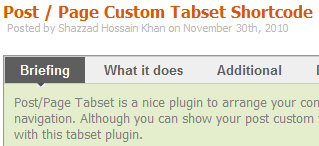
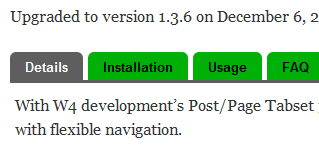
V 1.3.6
git-svn-id: https://plugins.svn.wordpress.org/postpage-content-anchor-tabset/trunk@332144 b8457f37-d9ea-0310-8a92-e5e31aec5664

diff --git a/tabset.js b/tabset.js
@@ -2,6 +2,7 @@
 $(document).ready(function(){
 	//var w4tabs = $('#tab_area' ).tabs() ;
 	//mytabs.tabs( "rotate" , 3000 , true ) ;
+	$('#w4_tabset_widget').tabs({ spinner: 'Loading...' });
 	var effect1 = $('.tabset_effect_1' ).tabs() ;
 	var effect2 = $('.tabset_effect_2' ).tabs() ;
 	var effect3 = $('.tabset_effect_3' ).tabs() ;
@@ -9,6 +10,11 @@ $(document).ready(function(){
 	effect2.tabs( "option", "fx", { height: 'toggle', duration : 300 }) ;
 	effect3.tabs( "option", "fx", { opacity : 'toggle', duration : 400 }) ;
 	
+	var events1 = $('.on_click' ).tabs() ;
+	var events2 = $('.on_hover' ).tabs() ;
+	
+	$( ".on_click" ).tabs( "option", "event", 'click' );
+	$( ".on_hover" ).tabs( "option", "event", 'mouseover' );
 	//Make the tabset colapsible on click
 	//effect1.tabs("option", "collapsible", true);
 	
@@ -25,7 +31,7 @@ $(document).ready(function(){
 	});
 	
 	$('#reset-tabset-options').click(function(){
-		if( confirm( "Are you sure you want to reset Tabber option to default ??" )){
+		if( confirm( "Are you sure you want to reset \"W4 content tabset\" option to default ??" )){
 			return true ;
 		}
 		return false ;

diff --git a/tabset.css b/tabset.css
@@ -1,3 +1,4 @@
+/*Admin section*/
 #tabset_wrapper p.info {
 	-moz-border-radius-bottomleft:6px;
 	-moz-border-radius-bottomright:6px;
@@ -5,17 +6,20 @@
 	-moz-border-radius-topright:6px;
 	background:#DCF3DB none repeat scroll 0 0;
 	border:1px solid #C9E6C8;
-	font-size:17px;
+	font-size:13px;
 	font-style:normal;
 	padding:10px 15px;
-	font-weight:bold;
 	}
 #tabset_wrapper p.info a {
 	font-weight:normal;
+	border-left:1px solid #666666;
+	padding:0 0 0 10px;
+	margin:0 10px 0 0;
+	text-decoration:none;
 	}
 #tabset_wrapper .notice {
-	background:#FFFFFF;
 	color: #FF0000;
+	font-size:11px;
 	}
 #tabset_wrapper span.advice {
 	background-color:#FFFFE0;
@@ -23,3 +27,10 @@
 	padding:5px 10px;
 	font-weight:bold;
 }
+/*For the main tabset preview page*/
+.ui-tabs-hide, ui-tabs-panel{
+	display:none;
+	}
+.ui-widget-content{
+	display:block;
+	}

diff --git a/tabset_admin.php b/tabset_admin.php
@@ -17,13 +17,13 @@ function w4_tabset_get_option($key = null){
 add_action( 'init', 'load_tabset_scripts' ) ;
 function load_tabset_scripts(){
 	//script
-		wp_enqueue_script( 'tabset_js', TABSET_URL . 'tabset.js', array( 'jquery' , 'jquery-ui-core', 'jquery-ui-tabs' ), TABSET_VERSION, true ) ;
+		wp_enqueue_script( 'tabset_js', TABSET_URL . 'tabset.js', array( 'jquery' , 'jquery-ui-core', 'jquery-ui-tabs' ), TABSET_VERSION, false ) ;
 		wp_enqueue_style( 'tabset_rewrite', TABSET_URL . 'rewrite.css', '', TABSET_VERSION ) ;
 		wp_enqueue_style( 'tabset_style', TABSET_URL . 'tabset.css', '', TABSET_VERSION ) ;
 		//for admin
 		wp_enqueue_script( 'color_picker', TABSET_URL . 'colorpicker/jscolor.js', array( 'jquery' , 'jquery-ui-core' ),TABSET_VERSION,true ) ;
 		
-		if(is_admin() && $_GET['page'] == 'post-tabs' )
+		if(is_admin() && $_GET['page'] == 'w4-content-tabset' )
 			add_filter( 'contextual_help', 'tabset_help' ) ;
 }
 
@@ -54,57 +54,65 @@ function post_tab_admin_menu(){
 						'tabset_menu_text_color_hover' 		=> '#FFFFFF',
 						'tabset_content_bg_color'			=> 'none',
 						'tabset_content_border_color'		=> '#5E5E5E',
-						'tabset_effect'						=> '1'
-						) ;
+						'tabset_effect'						=> '1',
+						'tabset_event'						=> 'on_click'
+						);
 	
 	
 	if( !get_option( 'w4_tabset_options' )){
 		register_setting( 'w4_tabset_options', 'w4_tabset_options' );
-		//removing old databse format
+		//Removing old databse format
 		foreach( $tabset_default_options as $key => $default ){
-			if( get_option( $key )){
+			if( get_option($key)){
 				$tabset_default_options[$key] = get_option( $key );
-				delete_option( $key ) ;
+				delete_option( $key);
 			}
 		}
+		//Remover old style
+		if(get_option('tabset_style'))
+			delete_option('tabset_style');
 		//Adding default
 		add_option( 'w4_tabset_options', $tabset_default_options );
 	}
-	//Remover completely
-	delete_option('tabset_style');
 
 	if( isset( $_POST['save-tabset-options'] )){
-		update_option( 'w4_tabset_options', $tabset_default_options );
+		//update_option( 'w4_tabset_options', $tabset_default_options );
 		foreach( $tabset_default_options as $key => $default ){
 			$tabset_default_options[$key] = $_REQUEST[$key];
 		}
 		update_option( 'w4_tabset_options', $tabset_default_options );
 		tabset_stylesheet_update() ;
-		header("Location: edit.php?page=post-tabs&saved=true") ;
+		header("Location: edit.php?page=w4-content-tabset&saved=true") ;
 		die();
 	}
 
 	if ( isset( $_POST['reset-tabset-options'] )) {
 		update_option( 'w4_tabset_options', $tabset_default_options );
 		tabset_stylesheet_update() ;
-		header("Location: edit.php?page=post-tabs&reset=true") ;
+		header("Location: edit.php?page=w4-content-tabset&reset=true") ;
 		die();
 	}
 
-	add_posts_page( "Post/Page Tabs", "Post/Page tabset", 'publish_posts', 'post-tabs', 'post_tab_admin_page' ) ;
+	add_posts_page( "W4 content tabset", "W4 content tabset", 'publish_posts', 'w4-content-tabset', 'w4_content_tabset_admin_page' ) ;
 }
 
-function post_tab_admin_page(){
+function w4_content_tabset_admin_page(){
 	if ( $_REQUEST[ 'saved' ] ) echo '<div id="message" class="updated fade"><p><strong>Settings saved.</strong></p></div>';
 	if ( $_REQUEST[ 'reset' ] ) echo '<div id="message" class="updated fade"><p><strong>Settings reset.</strong></p></div>';
 ?>
 	<div id="tabset_wrapper" class="wrap">
     	<div class="icon32" id="icon-post"><br/></div>
-        <h2>Post/page Tabset <?php echo "V-".TABSET_VERSION ; ?> options
-        <p class="info">Developed by &raquo;<a href="http://w4dev.com" class="us" rel="developer" title="Web and wordpress development...">W4 development</a> &raquo;<a id="tabset_help" href="javascript:void(0);" title="Tabset documentation"> Need help ?</a> &raquo;<a href="http://w4dev.com/w4-plugin/post-page-custom-tabset-shortcode" title="Visit Plugin Site"> Visit Plugin Site</a> &raquo;<a href="mailto:sajib1223@gmail.com" rel="tabset_author_mail"> Mailto:Contact</a></p></h2>
-        <p><span class="notice">Note: The Anchor tabser has been removed from this version also the style. Now it is taking a new option, "effect".</span></p>
-        <form action="<?php echo admin_url("edit.php?page=post-tabs") ; ?>" method="post" id="tabset-form" enctype="multipart/form-data">
-		<input type="hidden" value="save" name="action"/>
+        <h2>W4 content tabset <?php echo "V-".TABSET_VERSION ; ?> options</h2>
+        <p class="info">
+		Developed by <a href="http://w4dev.com" class="us" rel="developer" title="Web and wordpress development...">W4 development</a>
+        <a id="tabset_help" href="javascript:void(0);" title="Tabset documentation"> Need help ?</a>
+        <a href="http://w4dev.com/w4-plugin/post-page-custom-tabset-shortcode" title="Visit Plugin Site"> Visit Plugin Site</a>
+        <a href="http://www.facebook.com/w4dev" title="Find us on facebook">Find us on facebook</a>
+        <a href="mailto:sajib1223@gmail.com" rel="tabset_author_mail"> Mailto: Direct Contact</a><br />
+		<span class="notice">Note: The Anchor tabser has been removed from this version also the style. Now it is taking a new option, "effect".</span>
+        </p>
+	<form action="<?php echo admin_url("edit.php?page=w4-content-tabset") ; ?>" method="post" id="tabset-form" enctype="multipart/form-data">
+	<input type="hidden" value="save" name="action"/>
 	<table class="form-table">
         <tbody>
 			<tr valign="top">
@@ -116,13 +124,22 @@ function post_tab_admin_page(){
                 <br />
                 <label><input type="radio" name="tabset_effect" <?php checked( w4_tabset_get_option( 'tabset_effect'),3 ) ; ?> value="3" id="tabset_effect3" />Fade</label>
 				</td>
-                <td>&nbsp;</td>
+                <td><input type="submit" id="save-tabset-options" name="save-tabset-options" class="button-primary" value="Save Tabset option" /></td>
 			</tr>
             
             <tr valign="top">
-                <th scope="row">Tabset menu background color</th>
-                <td><input type="text" class="color {pickerMode:'HVS', hash: true}" value="<?php echo  w4_tabset_get_option( 'tabset_menu_bg_color' ) ; ?>" id="tabset_menu_bg_color" name="tabset_menu_bg_color"/></td>
+                <th scope="row">Tabset event (how the will open)</th>
+                <td>
+                <label><input type="radio" name="tabset_event" <?php checked( w4_tabset_get_option( 'tabset_event'),'on_click' ) ; ?> value="on_click" id="tabset_event1" />Onclick</label>
+                <br />
+                <label><input type="radio" name="tabset_event" <?php checked( w4_tabset_get_option( 'tabset_event'),'on_hover' ) ; ?> value="on_hover" id="tabset_event2" />On mousehover</label>
+				</td>
                 <td>&nbsp;</td>
+			</tr>
+            <tr valign="top">
+                <th scope="row">Tabset menu item background color</th>
+                <td><input type="text" class="color {pickerMode:'HVS', hash: true}" value="<?php echo  w4_tabset_get_option( 'tabset_menu_bg_color' ) ; ?>" id="tabset_menu_bg_color" name="tabset_menu_bg_color"/></td>
+                <td><input type="submit" id="save-tabset-options" name="save-tabset-options" class="button-primary" value="Save Tabset option" /></td>
 			</tr>
 
         	<tr valign="top">
@@ -138,9 +155,9 @@ function post_tab_admin_page(){
 			</tr>
             
             <tr valign="top">
-                <th scope="row">Tabset menu hover/active background color</th>
+                <th scope="row">Tabset menu hover/active item background color</th>
                 <td><input type="text" class="color {pickerMode:'HVS', hash: true}" value="<?php echo w4_tabset_get_option( 'tabset_menu_bg_color_hover' ) ; ?>" id="tabset_menu_bg_color_hover" name="tabset_menu_bg_color_hover"/></td>
-                <td>&nbsp;</td>
+                <td><input type="submit" id="save-tabset-options" name="save-tabset-options" class="button-primary" value="Save Tabset option" /></td>
 			</tr>
             
             <tr valign="top">
@@ -156,18 +173,15 @@ function post_tab_admin_page(){
 			</tr>
             
             <tr valign="top">
-                <th scope="row">Tabset active content border color</th>
+                <th scope="row">Tabset border bottom color</th>
                 <td><input type="text" class="color {pickerMode:'HVS', hash: true}" value="<?php echo w4_tabset_get_option( 'tabset_content_border_color' ) ; ?>" id="tabset_content_border_color" name="tabset_content_border_color"/></td>
-                <td>&nbsp;</td>
+                <td><input type="submit" id="save-tabset-options" name="save-tabset-options" class="button-primary" value="Save Tabset option" /><br />
+<input type="submit" id="reset-tabset-options" style="background: #FF0000;" name="reset-tabset-options" class="button-primary" value="Reset Tabset option" /></td>
 			</tr>
             
 		</tbody>
 	</table>
-	<p class="submit">
-    <input type="submit" id="save-tabset-options" name="save-tabset-options" class="button-primary" value="Save Tabset option" />
-	<input type="submit" id="reset-tabset-options" style="background: #FF0000;" name="reset-tabset-options" class="button-primary" value="Reset Tabset option" />
-    </p>
-		</form>
+	</form>
 	</div>
 <?php
 }
@@ -177,13 +191,13 @@ function tabset_stylesheet_update(){
 	extract(w4_tabset_get_option());
 
 $style = "#tab_area{margin:10px 0px;}
-#tab_area .tab_content{margin:10px;}
-#tab_content_wrapper{position:relative;overflow:auto;}
-#tab_area div.tab_container{margin:10px 0px;border-bottom:1px solid {$tabset_content_border_color};background-color:{$tabset_content_bg_color};}
+#tab_area .tab_content{padding:10px 5px;}
+#tab_content_wrapper{position:relative;overflow:hidden;border-bottom:1px solid {$tabset_content_border_color};padding:0 0 1px 0;}
+#tab_area div.tab_container{padding:0;margin:0;border-bottom:1px solid {$tabset_content_border_color};background-color:{$tabset_content_bg_color};}
 #tab_area div.ui-tabs-hide{display:none;}
-#tab_area ul.tab_links{border-bottom:3px solid {$tabset_menu_bg_color_hover};padding:0;margin:0;}
-#tab_area ul.tab_links li{display:inline-block;position:relative;list-style-type:none;padding:0;margin:0;}
-#tab_area ul.tab_links li a{color:{$tabset_menu_text_color};text-decoration:none;font-family:Geneva, Arial, Helvetica, sans-serif;font-size:{$tabset_menu_font_size};line-height:normal;font-weight:bold;padding:7px 15px 5px 15px;display:inline-block;position:relative;background-color:{$tabset_menu_bg_color};-moz-border-radius-topleft:5px;-moz-border-radius-topright:5px;}
+#tab_area ul.tab_links{border-bottom:3px solid {$tabset_menu_bg_color_hover};overflow:hidden;padding:0;margin:0;list-style-type:none;list-style-position:outside;text-align:left;}
+#tab_area ul.tab_links li{display:inline;float:left;position:relative;list-style-type:none;list-style-position:outside;padding:0;margin:0 5px 0 0;}
+#tab_area ul.tab_links li a{color:{$tabset_menu_text_color};text-decoration:none;font-family:Geneva, Arial, Helvetica, sans-serif;font-size:{$tabset_menu_font_size};line-height:normal;font-weight:bold;padding:7px 15px 5px 15px;display:block;position:relative;background-color:{$tabset_menu_bg_color};-moz-border-radius-topleft:5px;-moz-border-radius-topright:5px;}
 #tab_area ul.tab_links li a:hover, #tab_area ul.tab_links li a.active, #tab_area ul.tab_links li.ui-tabs-selected a{background-color:{$tabset_menu_bg_color_hover};color:{$tabset_menu_text_color_hover};}" ;
 
 
@@ -191,76 +205,5 @@ $style = "#tab_area{margin:10px 0px;}
 	fwrite( $fp, $style ) ;
 	fclose( $fp ) ;
 	$_SESSION['counter'] = 1 ;
-}
-
-//Setup themes primary widget=========================
-add_action( 'widgets_init', 'tabset_widgets_init' );
-function tabset_widgets_init() {
-	register_sidebar( array(
-		'name' => 'Tabset widget one',
-		'id' => 'tabset-widget-one',
-		'description' => 'Tabset widget one',
-		'before_widget' => '<li id="%1$s" class="widget-container %2$s">',
-		'after_widget' => '</li>',
-		'before_title' => '<h3 class="widget-title">',
-		'after_title' => '</h3>'
-	)) ;
-	register_sidebar( array(
-		'name' => 'Tabset widget two',
-		'id' => 'tabset-widget-two',
-		'description' => 'Tabset widget two',
-		'before_widget' => '<li id="%1$s" class="widget-container %2$s">',
-		'after_widget' => '</li>',
-		'before_title' => '<h3 class="widget-title">',
-		'after_title' => '</h3>'
-	)) ;
-}
-
-//Define widget======================
-class TABSET_Widget extends WP_Widget {
-
-	function TABSET_Widget() {
-		$widget_ops = array(
-					'classname' => 'w4_tabset',
-					'description' => __( "W4 tabset")
-				);
-		$control_ops = array('width' => 200, 'height' => 400);
-		$this->WP_Widget('w4_tabset', __('W4 tabset'), $widget_ops,$control_ops );
-	}
-
-	function widget($args, $instance){
-		extract($args);
-		echo $before_widget;
-		$this->_widget($instance);
-        echo $after_widget;
-	}
-	
-	function _widget($instance){
-		echo "<div id=\"w4_tabset_widget\">";
-			echo "<ul>";
-			echo "<li><a href=\"#w4_tabset_widget_container_1\">One</a></li><li><a href=\"#w4_tabset_widget_container_2\">Two</a></li>";
-			echo "</ul>";
-			echo '<div id="w4_tabset_widget_container_1" class="w4_tabset_widget_container">';
-				dynamic_sidebar( 'tabset-widget-one' ) ;
-			echo "</div>";
-			echo '<div id="w4_tabset_widget_container_2" class="w4_tabset_widget_container">';
-				dynamic_sidebar( 'tabset-widget-two' ) ;
-			echo "</div>";
-
-		echo "</div>";
-	}
-
-	function update( $new_instance, $old_instance ) {
-	}
-
-
-	function form( $instance ){
-	}
-	
-}
-//load Widget==============================
-add_action('widgets_init', 'TABSET_Widget_Init');
-function TABSET_Widget_Init() {
-  register_widget('TABSET_Widget');
 }
 ?>

diff --git a/tabset.php b/tabset.php
@@ -3,15 +3,15 @@
 Plugin Name: Post/Page content tabset
 Plugin URI: http://w4dev.com/w4-plugin/post-page-custom-tabset-shortcode
 Description: Lets you embed tabset in your post/page area and also show your desired custom field values in a post/page area
-Version: 1.3.5
+Version: 1.3.6
 Author: sajib1223, Shazzad Hossain Khan
 Author URI: http://w4dev.com/
 */
 define( 'TABSET_DIR', plugin_dir_path(__FILE__)) ;
 define( 'TABSET_URL', plugin_dir_url(__FILE__)) ;
-define( 'TABSET_VERSION', '1.3.5' ) ;
+define( 'TABSET_VERSION', '1.3.6' ) ;
 define( 'TABSET_BASENAME', plugin_basename( __FILE__ )) ;
-require( TABSET_DIR . '/tabset_admin.php' ) ;
+require( TABSET_DIR . 'tabset_admin.php' ) ;
 
 //Retrive and replace the tabs
 function tabset_replace( $matches ){
@@ -24,7 +24,7 @@ function tabset_replace( $matches ){
 		$i++ ;
 		$tab_name = $tab[1] ;
 		$tab_id = sanitize_title( $tab_name."-".$i ) ;
-		$tab_links .= "<li><a title=\"$tab_name\" class=\"$tab_id\" href=\"#$tab_id\">$tab_name<span></span></a></li>\n" ;
+		$tab_links .= "\t<li><a title=\"$tab_name\" class=\"$tab_id\" href=\"#$tab_id\">$tab_name</a></li>\n" ;
 		$tabs_content[$tab_id] = $tab[2] ;
 	}
 
@@ -35,14 +35,15 @@ function tabset_replace( $matches ){
 	}
 	
 	if( !$content )
-		return ;
+		return false;
 	
-	$tabset_effect = w4_tabset_get_option( 'tabset_effect') ;
-	
-	$links = "<ul class=\"tab_links\">$tab_links</ul>\n" ;
-	$content = "<div id=\"tab_area\" class=\"tabset_effect_$tabset_effect\">$links<div id=\"tab_content_wrapper\">$content</div>\n</div>" ;
-	
-	return $content ;
+	$class = ' tabset_effect_'. w4_tabset_get_option( 'tabset_effect');
+	$class .= ' '. w4_tabset_get_option( 'tabset_event');
+	$links = "<ul class=\"tab_links\">$tab_links</ul>\n";
+	$content = "<div id=\"tab_area\" class=\"$class\">$links<div id=\"tab_content_wrapper\">$content</div>\n</div>";
+
+	return $content;
+	return false;
 }
 
 //Retrive and Replace the tabset shortcode
